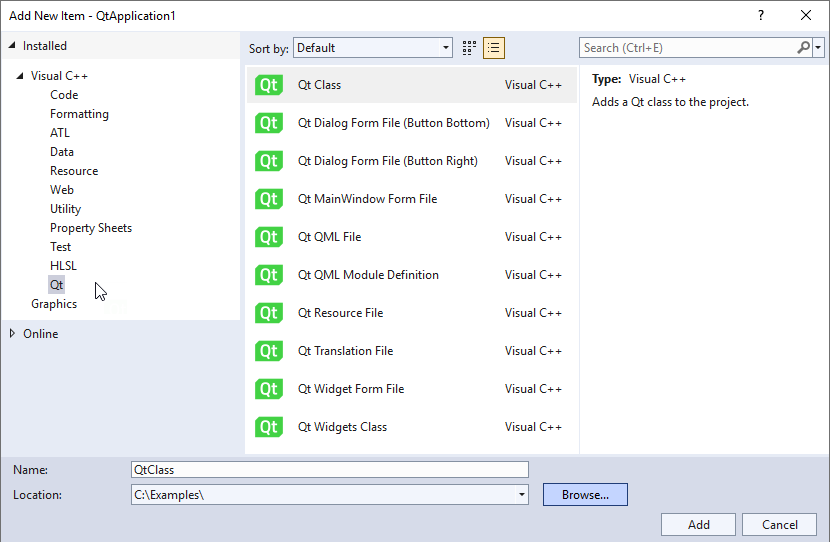
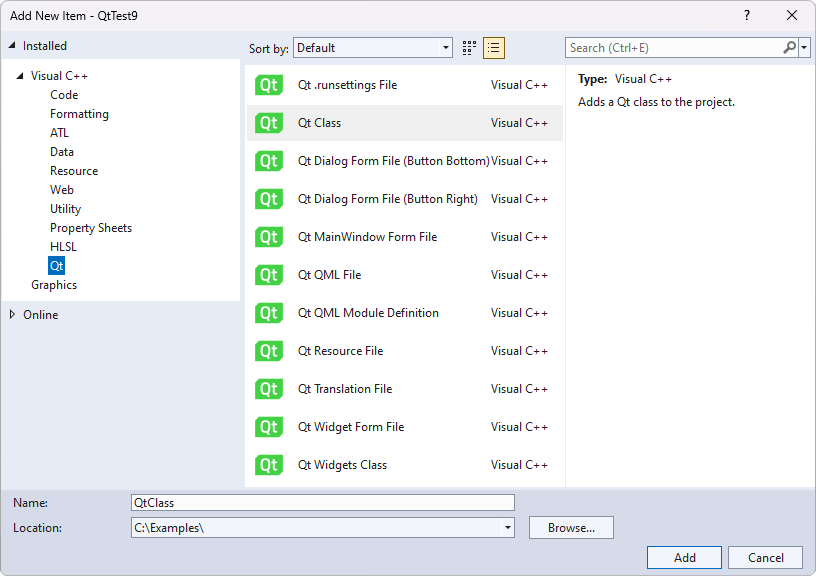
Add documentation for QtTest adapter

diff --git a/doc/config/style/qt5-sidebar.html b/doc/config/style/qt5-sidebar.html
@@ -7,6 +7,7 @@
             <li><a href="qtvstools-tutorial-qt-widgets-application.html">Tutorial: Qt Widgets application</a></li>
             <li><a href="qtvstools-tutorial-qt-quick-application.html">Tutorial: Qt Quick application</a></li>
             <li><a href="qtvstools-tutorial-debug-qt-quick.html">Tutorial: Qt Quick debugging</a></li>
+            <li><a href="qtvstools-tutorial-qt-test-project.html">Tutorial: Qt Test application</a></li>
         </ul>
     </div>
 </div>
@@ -17,6 +18,7 @@
     <ul>
             <li><a href="qtvstools-how-to-add-qt-versions.html">Add Qt versions</a></li>
             <li><a href="qtvstools-how-to-build-older-projects.html">Build solutions that have Qt/MSBuild format 2</a></li>
+            <li><a href="qtvstools-configure-runsettings.html">Configure Qt tests using a .runsettings file</a></li>
             <li><a href="qtvstools-how-to-convert-project-format.html">Convert solutions to latest Qt/MSBuild format</a></li>
             <li><a href="qtvstools-how-to-create-qt-translation-files.html">Create Qt translation files</a></li>
             <li><a href="qtvstools-how-to-add-form-files.html">Create UI form files</a></li>
@@ -55,5 +57,6 @@
     <ul>
             <li><a href="qtvstools-reference-files.html">Files</a></li>
             <li><a href="qtvstools-reference-projects.html">Projects</a></li>
+            <li><a href="qtvstools-reference-runsettings.html">Test Adapter settings</a></li>
     </ul>
 </div>
